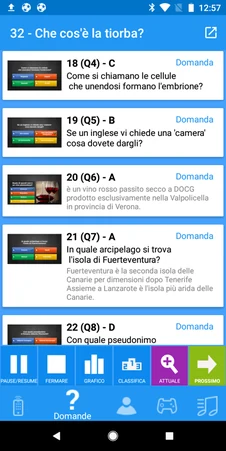
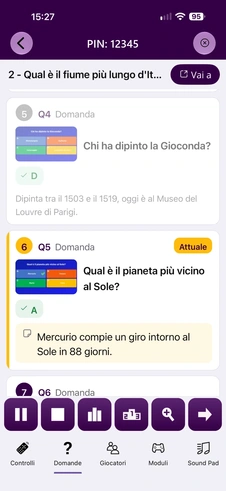
IT: screenshots of the redesigned Director and Smart Buzzer apps (8.6)
Italian versions of 27 screenshots (Director and Smart Buzzer, build 8.6.0.332)
and the menu icon, taken by Walter with Italian content; PIN replaced by 12345 and
a neutral avatar instead of the profile photo. Text aligned to the new apps:
"+" button, podium icon, PIN under the keypad number, colors of the current
question and of the answer counters in the Questions tab.

image382 (bonus points won) is left as it was: the new app shows the bonus in a
single popup (image381).

diff --git a/docs/live/using-mobile-keypads/using-the-mobile-apps.it.md b/docs/live/using-mobile-keypads/using-the-mobile-apps.it.md
@@ -42,7 +42,7 @@ A sinistra si vede un esempio di domanda di tipo ‘Lettera Iniziale’.
 
 Sullo schermo si vedono diversi elementi:
 
-- In alto a sinistra si vede il numero assegnato al proprio buzzer mobile.
+- In alto a sinistra si vede il numero assegnato al proprio buzzer mobile, con sotto il PIN del quiz, e accanto l'immagine del profilo.
 
 - In alto a destra viene mostrato il nome del giocatore.
 
@@ -50,7 +50,7 @@ Sullo schermo si vedono diversi elementi:
 
   - L'indice della domanda corrente (domanda corrente sulle totali - es 2/20)
 
-  - Un trofeo con il numero di punti in palio. Se i punti decrementano nel tempo, si vedranno qui (Si tratta di un valore approssimativo).
+  - Un podio con il numero di punti in palio. Se i punti decrementano nel tempo, si vedranno qui (Si tratta di un valore approssimativo).
 
   - Un timer di countdown, che mostra il numero di secondi rimasti. Durante gli ultimi 5 secondi il timer lampeggia per indicare che il tempo sta per scadere.
 
@@ -112,7 +112,7 @@ Per controllare il quiz dal tablet o dal telefono, è possibile usare l'app tele
 
 ![](../../assets/images/director-app-start.webp){ width="226" loading=lazy }
 
-È possibile registrare il computer che si desidera controllare con il telecomando QuizXpress Director premendo il pulsante giallo «più» in basso a destra sullo schermo del dispositivo mobile.
+È possibile registrare il computer che si desidera controllare con il telecomando QuizXpress Director premendo il pulsante «+» in basso a destra sullo schermo del dispositivo mobile.
 
 Premendo il pulsante, viene mostrato uno scanner di codici QR. Il codice QR da scansionare è visualizzato nella scheda Mobile di QuizXpress Setup (fare riferimento a [Configurare il supporto delle pulsantiere mobili](../../setup/setting-up-mobile-keypad-support.md)). Scansionare il codice qui visualizzato e il nome del computer verrà mostrato nell'app QuizXpress Director. Questa procedura va eseguita una sola volta per registrare il computer nell'app.
 
@@ -180,9 +180,9 @@ La scheda Controlli permette di gestire il quiz. Sono disponibili i seguenti pul
 
 - Pulsante **Freccia** – fa avanzare alla diapositiva successiva.
 
-Le diapositive che sono state già svolte sono colorate di giallo, la domanda attuale è colorata di verde.
+La domanda attuale è evidenziata in giallo, con l'etichetta ‘Attuale’; le diapositive già svolte hanno il numero in grigio.
 
-> Dopo ogni domanda ‘Tutti possono rispondere’, l'app Director mostra il numero di giocatori che hanno risposto correttamente (in verde), il numero di quelli che hanno risposto in modo errato (in rosso) e il numero di quelli che non hanno risposto affatto (in blu).
+> Dopo ogni domanda ‘Tutti possono rispondere’, l'app Director mostra in alto nella scheda Domande il numero di giocatori che hanno risposto correttamente (in verde), il numero di quelli che non hanno risposto (in viola chiaro) e il numero di quelli che hanno risposto in modo errato (in rosso).
 
 ![](../../assets/images/image396.webp){ width="189" loading=lazy }
 
